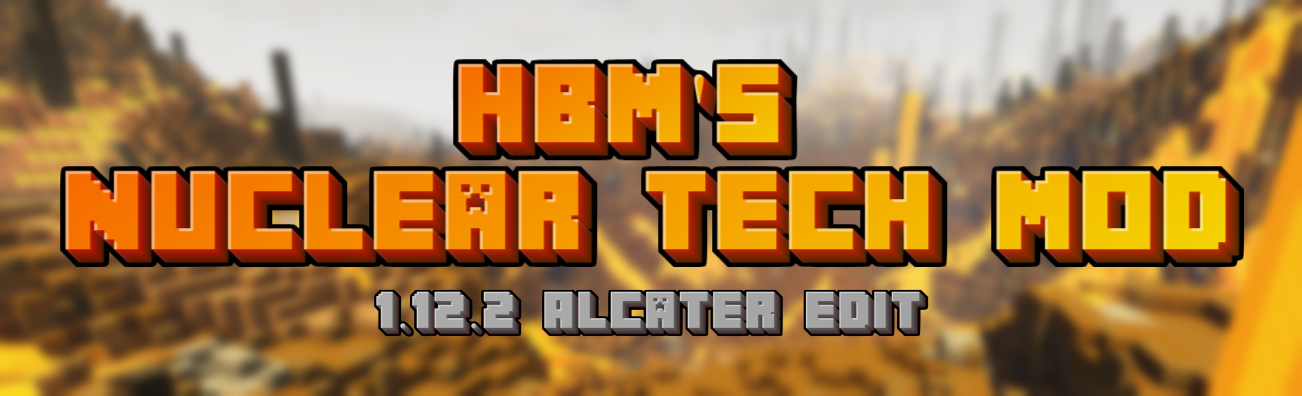
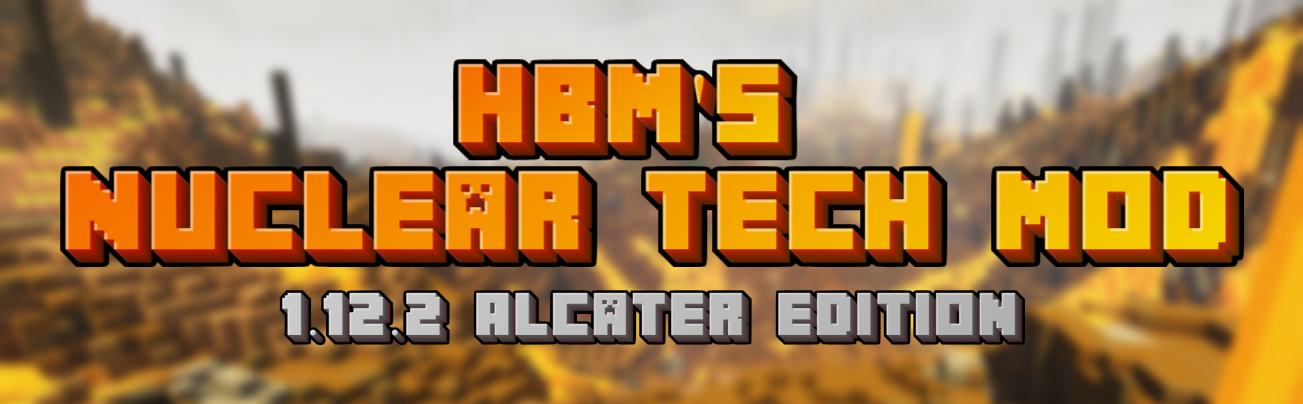
Fixes
Updated Title

Fixed N2 Mine Drop

diff --git a/src/main/java/com/hbm/entity/effect/EntityRainDrop.java b/src/main/java/com/hbm/entity/effect/EntityRainDrop.java
@@ -44,7 +44,7 @@ import net.minecraft.util.math.BlockPos;
 import net.minecraft.util.math.BlockPos.MutableBlockPos;
 import net.minecraft.world.World;
 
-public class EntityFalloutRain extends Entity implements IConstantRenderer, IChunkLoader {
+public class EntityRainDrop extends Entity implements IConstantRenderer, IChunkLoader {
 	private static final DataParameter<Integer> SCALE = EntityDataManager.createKey(EntityFalloutRain.class, DataSerializers.VARINT);
 	public int revProgress;
 	public int radProgress;
@@ -52,12 +52,6 @@ public class EntityFalloutRain extends Entity implements IConstantRenderer, IChu
 
 	private Ticket loaderTicket;
 
-	private double s1;
-	private double s2;
-	private double s3;
-	private double s4;
-	private double s5;
-	private double s6;
 	private double fallingRadius;
 
 	private boolean firstTick = true;
@@ -67,7 +61,7 @@ public class EntityFalloutRain extends Entity implements IConstantRenderer, IChu
 	private static int tickDelayStatic = 20;
 	private int tickDelay = 0;
 
-	public EntityFalloutRain(World p_i1582_1_) {
+	public EntityRainDrop(World p_i1582_1_) {
 		super(p_i1582_1_);
 		this.setSize(4, 20);
 		this.ignoreFrustumCheck = false;
@@ -90,7 +84,7 @@ public class EntityFalloutRain extends Entity implements IConstantRenderer, IChu
 		return true;
 	}
 
-	public EntityFalloutRain(World p_i1582_1_, int maxage) {
+	public EntityRainDrop(World p_i1582_1_, int maxage) {
 		super(p_i1582_1_);
 		this.setSize(4, 20);
 		this.isImmuneToFire = true;
@@ -244,22 +238,7 @@ public class EntityFalloutRain extends Entity implements IConstantRenderer, IChu
 
 	private void stomp(MutableBlockPos pos, double dist) {
 		int stoneDepth = 0;
-		int maxStoneDepth = 0;		
-
-		if(dist > s1)
-			maxStoneDepth = 0;
-		else if(dist > s2)
-			maxStoneDepth = 1;
-		else if(dist > s3)
-			maxStoneDepth = 2;
-		else if(dist > s4)
-			maxStoneDepth = 3;
-		else if(dist > s5)
-			maxStoneDepth = 4;
-		else if(dist > s6)
-			maxStoneDepth = 5;
-		else if(dist <= s6)
-			maxStoneDepth = 6;
+		int maxStoneDepth = 6;
 
 		boolean lastReachedStone = false;
 		boolean reachedStone = false;
@@ -288,194 +267,9 @@ public class EntityFalloutRain extends Entity implements IConstantRenderer, IChu
 			if(bmaterial == Material.AIR || bmaterial.isLiquid()){
 				if(y < contactHeight && contactHeight < 420)
 					gapFound = true;
-				continue;
-			}
-
-			if(bblock == Blocks.BEDROCK){
-				world.setBlockState(pos.add(0, 1, 0), ModBlocks.toxic_block.getDefaultState());
-				break;
-			}
-
-			if(bblock.isFlammable(world, pos, EnumFacing.UP)) {
-				if(world.isAirBlock(pos.add(0, 1, 0)))
-					world.setBlockState(pos.add(0, 1, 0), Blocks.FIRE.getDefaultState());
-			}
-
-			if(bblock instanceof BlockLeaves) {
-				world.setBlockToAir(pos);
-				continue;
-			}
-
-			// if(b.getBlock() == Blocks.WATER) {
-			// 	world.setBlockState(pos, ModBlocks.radwater_block.getDefaultState());
-			// }
-
-			if(bblock instanceof BlockOre && reachedStone && !lastReachedStone && dist < s4){
-				world.setBlockState(pos, ModBlocks.toxic_block.getDefaultState());
-				continue;
-			}
-
-			else if(bblock == Blocks.STONE) {
-				if(dist > s1 || stoneDepth==maxStoneDepth)
-					world.setBlockState(pos, ModBlocks.sellafield_slaked.getDefaultState());
-				else if(dist > s2 || stoneDepth==maxStoneDepth-1)
-					world.setBlockState(pos, ModBlocks.sellafield_0.getDefaultState());
-				else if(dist > s3 || stoneDepth==maxStoneDepth-2)
-					world.setBlockState(pos, ModBlocks.sellafield_1.getDefaultState());
-				else if(dist > s4 || stoneDepth==maxStoneDepth-3)
-					world.setBlockState(pos, ModBlocks.sellafield_2.getDefaultState());
-				else if(dist > s5 || stoneDepth==maxStoneDepth-4)
-					world.setBlockState(pos, ModBlocks.sellafield_3.getDefaultState());
-				else if(dist > s6 || stoneDepth==maxStoneDepth-5)
-					world.setBlockState(pos, ModBlocks.sellafield_4.getDefaultState());
-				else if(dist <= s6 || stoneDepth==maxStoneDepth-6)
-					world.setBlockState(pos, ModBlocks.sellafield_core.getDefaultState());
-				else
-					break;
-				continue;
-
-			} else if(bblock == Blocks.GRASS) {
-				world.setBlockState(pos, ModBlocks.waste_earth.getDefaultState());
-				continue;
-
-			} else if(bblock == Blocks.DIRT) {
-				BlockDirt.DirtType meta = b.getValue(BlockDirt.VARIANT);
-				if(meta == BlockDirt.DirtType.DIRT)
-					world.setBlockState(pos, ModBlocks.waste_dirt.getDefaultState());
-				else if(meta == BlockDirt.DirtType.COARSE_DIRT)
-					world.setBlockState(pos, Blocks.GRAVEL.getDefaultState());
-				else if(meta == BlockDirt.DirtType.PODZOL)
-					world.setBlockState(pos, ModBlocks.waste_mycelium.getDefaultState());
-				continue;
-
-			} else if(bblock == Blocks.SNOW_LAYER) {
-				world.setBlockState(pos, ModBlocks.fallout.getDefaultState());
-				continue;
-
-			} else if(bblock == Blocks.SNOW) {
-				world.setBlockState(pos, ModBlocks.block_fallout.getDefaultState());
-				continue;
-			} else if(bblock instanceof BlockBush && world.getBlockState(pos.add(0, -1, 0)).getBlock() == Blocks.GRASS) {
-				world.setBlockState(pos.add(0, -1, 0), ModBlocks.waste_earth.getDefaultState());
-				world.setBlockState(pos, ModBlocks.waste_grass_tall.getDefaultState());
-				continue;
-
-			} else if(bblock == Blocks.MYCELIUM) {
-				world.setBlockState(pos, ModBlocks.waste_mycelium.getDefaultState());
-				continue;
-			} else if(bblock == Blocks.SAND) {
-
-				if(rand.nextInt(60) == 0) {
-					BlockSand.EnumType meta = b.getValue(BlockSand.VARIANT);
-					world.setBlockState(pos, meta == BlockSand.EnumType.SAND ? ModBlocks.waste_trinitite.getDefaultState() : ModBlocks.waste_trinitite_red.getDefaultState());
-				}
-				continue;
-			}
-
-			else if(bblock == Blocks.CLAY) {
-				world.setBlockState(pos, Blocks.HARDENED_CLAY.getDefaultState());
-				break;
-			}
-
-			else if(bblock == Blocks.MOSSY_COBBLESTONE) {
-				world.setBlockState(pos, Blocks.COAL_ORE.getDefaultState());
-				break;
-			}
-
-			else if(bblock == Blocks.COAL_ORE) {
-				if(dist < s5){
-					int ra = rand.nextInt(150);
-					if(ra < 7) {
-						world.setBlockState(pos, Blocks.DIAMOND_ORE.getDefaultState());
-					} else if(ra < 10) {
-						world.setBlockState(pos, Blocks.EMERALD_ORE.getDefaultState());
-					}
-				}
-				continue;
-			}
-
-			else if(bblock == Blocks.BROWN_MUSHROOM_BLOCK || bblock == Blocks.RED_MUSHROOM_BLOCK) {
-				BlockHugeMushroom.EnumType meta = b.getValue(BlockHugeMushroom.VARIANT);
-				if(meta == BlockHugeMushroom.EnumType.STEM) {
-					world.setBlockState(pos, ModBlocks.mush_block_stem.getDefaultState());
-				} else {
-					world.setBlockState(pos, ModBlocks.mush_block.getDefaultState());
-				}
-				continue;
-			}
-
-			else if(bblock instanceof BlockLog) {
-				world.setBlockState(pos, ModBlocks.waste_log.getDefaultState());
-				continue;
-			}
-
-			else if(bmaterial == Material.WOOD && bblock != ModBlocks.waste_log) {
-				world.setBlockState(pos, ModBlocks.waste_planks.getDefaultState());
-				continue;
-			}
-			else if(b.getBlock() == ModBlocks.sellafield_4) {
-				world.setBlockState(pos, ModBlocks.sellafield_core.getDefaultState());
-				continue;
-			}
-			else if(b.getBlock() == ModBlocks.sellafield_3) {
-				world.setBlockState(pos, ModBlocks.sellafield_4.getDefaultState());
-				continue;
-			}
-			else if(b.getBlock() == ModBlocks.sellafield_2) {
-				world.setBlockState(pos, ModBlocks.sellafield_3.getDefaultState());
-				continue;
-			}
-			else if(b.getBlock() == ModBlocks.sellafield_1) {
-				world.setBlockState(pos, ModBlocks.sellafield_2.getDefaultState());
-				continue;
-			}
-			else if(b.getBlock() == ModBlocks.sellafield_0) {
-				world.setBlockState(pos, ModBlocks.sellafield_1.getDefaultState());
-				continue;
-			}
-			else if(b.getBlock() == ModBlocks.sellafield_slaked) {
-				world.setBlockState(pos, ModBlocks.sellafield_0.getDefaultState());
-				continue;
-			}
-			else if(bblock == ModBlocks.ore_uranium) {
-				if(dist <= s6){
-					if (rand.nextInt(VersatileConfig.getSchrabOreChance()) == 0)
-						world.setBlockState(pos, ModBlocks.ore_schrabidium.getDefaultState());
-					else
-						world.setBlockState(pos, ModBlocks.ore_uranium_scorched.getDefaultState());
-				}
-				break;
-			}
-
-			else if(bblock == ModBlocks.ore_nether_uranium) {
-				if(dist <= s5){
-					if(rand.nextInt(VersatileConfig.getSchrabOreChance()) == 0)
-						world.setBlockState(pos, ModBlocks.ore_nether_schrabidium.getDefaultState());
-					else
-						world.setBlockState(pos, ModBlocks.ore_nether_uranium_scorched.getDefaultState());
-				}
-				break;
-
-			}
-
-			else if(bblock == ModBlocks.ore_gneiss_uranium) {
-				if(dist <= s4){
-					if(rand.nextInt(VersatileConfig.getSchrabOreChance()) == 0)
-						world.setBlockState(pos, ModBlocks.ore_gneiss_schrabidium.getDefaultState());
-					else
-						world.setBlockState(pos, ModBlocks.ore_gneiss_uranium_scorched.getDefaultState());
-				}
-				break;
-				// this piece stops the "stomp" from reaching below ground
-			}
-			else if(bblock == ModBlocks.brick_concrete) {
-				if(rand.nextInt(80) == 0)
-					world.setBlockState(pos, ModBlocks.brick_concrete_broken.getDefaultState());
-				break;
-				// this piece stops the "stomp" from reaching below ground
 			}
 		}
-		if(dist < fallingRadius && gapFound)
+		if(gapFound)
 			letFall(world, pos, contactHeight-pos.getY());
 	}
 
@@ -497,15 +291,7 @@ public class EntityFalloutRain extends Entity implements IConstantRenderer, IChu
 	}
 
 	public void setScale(int i) {
-		this.dataManager.set(SCALE, Integer.valueOf(i));
-		s1 = 0.88 * i;
-		s2 = 0.48 * i;
-		s3 = 0.26 * i;
-		s4 = 0.15 * i;
-		s5 = 0.08 * i;
-		s6 = 0.05 * i;
-		fallingRadius = 0.55 * i + 16;
-
+		this.dataManager.set(SCALE, Integer.valueOf(i+16));
 	}
 
 	public int getScale() {

diff --git a/src/main/java/com/hbm/entity/logic/EntityNukeExplosionMK4.java b/src/main/java/com/hbm/entity/logic/EntityNukeExplosionMK4.java
@@ -15,6 +15,7 @@ import com.hbm.config.BombConfig;
 import com.hbm.config.GeneralConfig;
 import com.hbm.entity.effect.EntityFalloutUnderGround;
 import com.hbm.entity.effect.EntityFalloutRain;
+import com.hbm.entity.effect.EntityRainDrop;
 import com.hbm.entity.effect.EntityDrying;
 import com.hbm.explosion.ExplosionNukeGeneric;
 import com.hbm.explosion.ExplosionNukeRay;
@@ -47,6 +48,7 @@ public class EntityNukeExplosionMK4 extends Entity implements IChunkLoader {
 	EntityFalloutUnderGround falloutBall;
 	EntityDrying dryingBomb;
 	EntityFalloutRain falloutRain;
+	EntityRainDrop rainDrop;
 	EntityDrying waterBomb;
 
 	public EntityNukeExplosionMK4(World p_i1582_1_) {
@@ -111,27 +113,66 @@ public class EntityNukeExplosionMK4 extends Entity implements IChunkLoader {
 					this.world.spawnEntity(falloutBall);
 				}
 				if(falloutBall.done){
-					if(!explosion.isContained){
-						if(floodPlease){
+					if(floodPlease){
+						if(waterBomb == null){
 							waterBomb = new EntityDrying(this.world);
 							waterBomb.posX = this.posX;
 							waterBomb.posY = this.posY;
 							waterBomb.posZ = this.posZ;
 							waterBomb.dryingmode = false;
-							waterBomb.setScale(this.radius+16);
+							waterBomb.setScale(this.radius+18);
 							this.world.spawnEntity(waterBomb);
+						} else if(waterBomb.done){
+							if(!explosion.isContained){
+								falloutRain = new EntityFalloutRain(this.world);
+								falloutRain.posX = this.posX;
+								falloutRain.posY = this.posY;
+								falloutRain.posZ = this.posZ;
+								falloutRain.setScale((int) (this.radius * (1F+(BombConfig.falloutRange / 100)) + falloutAdd));
+								this.world.spawnEntity(falloutRain);
+							}
+							this.setDead();
 						}
-						falloutRain = new EntityFalloutRain(this.world);
-						falloutRain.posX = this.posX;
-						falloutRain.posY = this.posY;
-						falloutRain.posZ = this.posZ;
-						falloutRain.setScale((int) (this.radius * (1+BombConfig.falloutRange / 100) + falloutAdd));
-						this.world.spawnEntity(falloutRain);
+					} else {
+						if(!explosion.isContained){
+							falloutRain = new EntityFalloutRain(this.world);
+							falloutRain.posX = this.posX;
+							falloutRain.posY = this.posY;
+							falloutRain.posZ = this.posZ;
+							falloutRain.setScale((int) (this.radius * (1F+(BombConfig.falloutRange / 100)) + falloutAdd));
+							this.world.spawnEntity(falloutRain);
+						}
+						this.setDead();
 					}
-					this.setDead();
 				}
 			} else {
-				this.setDead();
+				if(floodPlease){
+					if(waterBomb == null){
+						waterBomb = new EntityDrying(this.world);
+						waterBomb.posX = this.posX;
+						waterBomb.posY = this.posY;
+						waterBomb.posZ = this.posZ;
+						waterBomb.dryingmode = false;
+						waterBomb.setScale(this.radius+18);
+						this.world.spawnEntity(waterBomb);
+					} else if(waterBomb.done){
+						rainDrop = new EntityRainDrop(this.world);
+						rainDrop.posX = this.posX;
+						rainDrop.posY = this.posY;
+						rainDrop.posZ = this.posZ;
+						rainDrop.setScale((int)this.radius+16);
+						this.world.spawnEntity(rainDrop);
+						this.setDead();
+					}
+				}else {
+					rainDrop = new EntityRainDrop(this.world);
+					rainDrop.posX = this.posX;
+					rainDrop.posY = this.posY;
+					rainDrop.posZ = this.posZ;
+					rainDrop.setScale((int)this.radius+16);
+					this.world.spawnEntity(rainDrop);
+					this.setDead();
+				}
 			}
 		}
 	}

diff --git a/src/main/java/com/hbm/entity/effect/EntityDrying.java b/src/main/java/com/hbm/entity/effect/EntityDrying.java
@@ -208,10 +208,8 @@ public class EntityDrying extends Entity implements IConstantRenderer, IChunkLoa
 		this.dataManager.set(SCALE, Integer.valueOf(i));
 		this.maxArea = i * i * 8;
 		this.xlast = -i;
-		if(i > 250)
-			this.speed = (int)(BombConfig.mk4*2F);
-		if(!dryingmode)
-			this.speed = (int)(this.speed * 0.25F);
+		if(i > 150)
+			this.speed = (int)(BombConfig.mk4);
 	}
 
 	public int getScale() {
